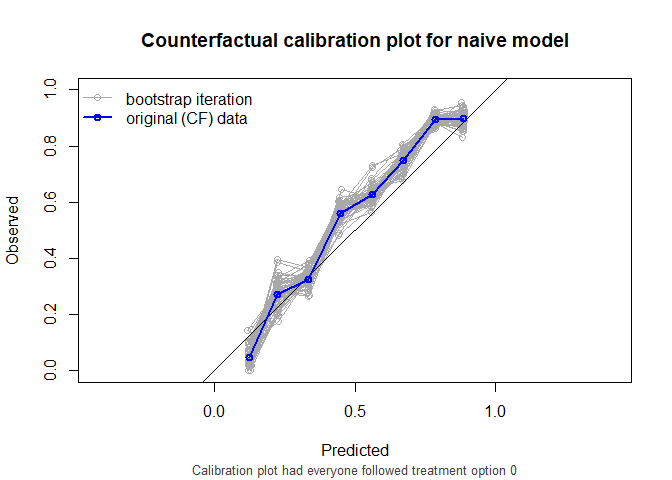
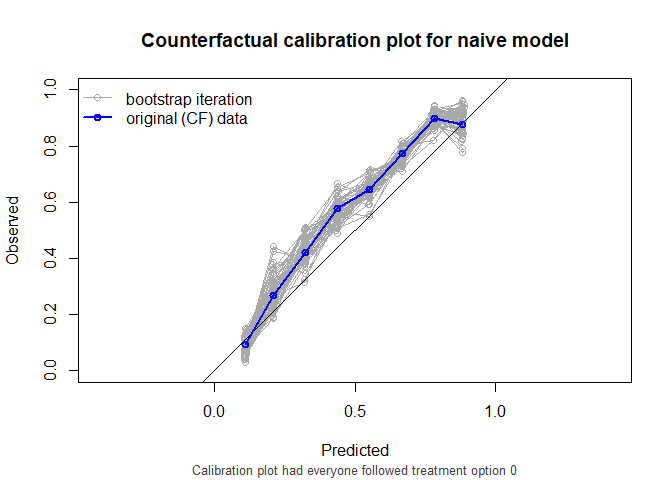
stronger treatment/confounding for more convincing story

Changed region(s): [[0.3438, 0.2188, 0.7188, 0.7812]]

diff --git a/README.md b/README.md
@@ -42,9 +42,9 @@ n <- 1000
 
 df_dev <- data.frame(id = 1:n)
 df_dev$L <- rnorm(n)
-df_dev$A <- rbinom(n, 1, plogis(df_dev$L))
+df_dev$A <- rbinom(n, 1, plogis(2*df_dev$L))
 df_dev$P <- rnorm(n)
-df_dev$Y <- rbinom(n, 1, plogis(0.5 + df_dev$L + 1.25 * df_dev$P - 0.6*df_dev$A))
+df_dev$Y <- rbinom(n, 1, plogis(0.5 + df_dev$L + 1.25 * df_dev$P - 0.9*df_dev$A))
 ```
 
 We also need something to validate. We will create a couple of models
@@ -72,10 +72,10 @@ model correctly infers that treatment benefits patients.
 ``` r
 print(coefficients(naive_model))
 #> (Intercept)           A           P 
-#>   0.1167948   0.2568862   0.9279159
+#> -0.09438097  0.25710271  0.98079027
 print(coefficients(causal_model))
 #> (Intercept)           A           P 
-#>   0.4085166  -0.5148785   0.9022130
+#>   0.3569683  -0.9224453   0.9183316
 ```
 
 We are now interested in how the models perform in an external
@@ -89,9 +89,9 @@ n <- 5000
 
 df_val <- data.frame(id = 1:n)
 df_val$L <- rnorm(n)
-df_val$A <- rbinom(n, 1, plogis(0.5 + df_val$L))
+df_val$A <- rbinom(n, 1, plogis(0.5 + 2*df_val$L))
 df_val$P <- rnorm(n)
-df_val$Y <- rbinom(n, 1, plogis(0.5 + df_val$L + 1.25 * df_val$P - 0.6*df_val$A))
+df_val$Y <- rbinom(n, 1, plogis(0.5 + df_val$L + 1.25 * df_val$P - 0.9*df_val$A))
 ```
 
 The question that we would like to have answered is the following:
@@ -125,13 +125,13 @@ CFscore(
 #> - Consistency
 #> - No interference
 #> - Correctly specified propensity formula. Estimated treatment model is
-#>  logit(A) = 0.49 + 0.96*L. See also $ipt$model
+#>  logit(A) = 0.48 + 1.99*L. See also $ipt$model
 #> 
 #>         model   auc brier oeratio
-#>    null model 0.500 0.242    1.00
-#>        random 0.512 0.327    1.19
-#>   naive model 0.760 0.199    1.12
-#>  causal model 0.760 0.195    1.01
+#>    null model 0.500 0.244    1.00
+#>        random 0.519 0.319    1.17
+#>   naive model 0.752 0.208    1.21
+#>  causal model 0.752 0.198    1.01
 ```
 
 <img src="man/figures/README-unnamed-chunk-6-1.png" width="100%" />
@@ -171,25 +171,25 @@ CFscore(
 #> 
 #>         model   auc lower upper
 #>    null model 0.500 0.500 0.500
-#>        random 0.512 0.479 0.540
-#>   naive model 0.760 0.726 0.782
-#>  causal model 0.760 0.726 0.782
+#>        random 0.519 0.481 0.569
+#>   naive model 0.752 0.717 0.786
+#>  causal model 0.752 0.717 0.786
 #> 
 #> brier
 #> 
 #>         model brier lower upper
-#>    null model 0.242 0.237 0.245
-#>        random 0.327 0.312 0.348
-#>   naive model 0.199 0.192 0.209
-#>  causal model 0.195 0.187 0.204
+#>    null model 0.244 0.237 0.248
+#>        random 0.319 0.296 0.341
+#>   naive model 0.208 0.194 0.223
+#>  causal model 0.198 0.189 0.208
 #> 
 #> oeratio
 #> 
 #>         model oeratio lower upper
-#>    null model    1.00 0.977  1.05
-#>        random    1.19 1.147  1.25
-#>   naive model    1.12 1.100  1.18
-#>  causal model    1.01 0.984  1.06
+#>    null model    1.00 0.957  1.07
+#>        random    1.17 1.114  1.26
+#>   naive model    1.21 1.159  1.29
+#>  causal model    1.01 0.968  1.08
 ```
 
 <img src="man/figures/README-unnamed-chunk-7-1.png" width="100%" /><img src="man/figures/README-unnamed-chunk-7-2.png" width="100%" /><img src="man/figures/README-unnamed-chunk-7-3.png" width="100%" /><img src="man/figures/README-unnamed-chunk-7-4.png" width="100%" /><img src="man/figures/README-unnamed-chunk-7-5.png" width="100%" />
